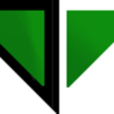
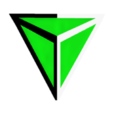
CSRF Protection
- Enabled some more secure features of Django to ensure security
from cross site request forgery. This isn't really adding all that much
to this website as this is not the main security threat. It's just nice
to have in general. There are only GET requests to canvas, so a CSRF attack
would do nothing in this context.

- Updated logo - it's still being worked on. I think it looks much better
as the ico though.

- Added a new template that will be the redirect when the model is being
trained. However, drawing with a canvas and then animating that is quite
difficult. Looking into js libraries that take care of this.

- Put a linear layer on the autoencoder at the end just like before.

diff --git a/Main/templates/model_training.html b/Main/templates/model_training.html
@@ -1,0 +1,54 @@
+{% extends 'base.html' %}
+{% block title %} <title>Training</title> {% endblock %}
+{% block css %}
+    {% load static %}
+        <link rel="stylesheet" type="text/css" href="{% static 'css/model_training.css' %}">
+{% endblock %}
+{% block body %}
+    <div id="neural-net">
+    </div>
+
+    <script type="text/javascript">
+    // TODO: Come back (fabric.js)
+        function buildLayer(nodeCount, id) {
+            let layer = document.createElement("div");
+            layer.id = id;
+            layer.className = "layer";
+            for (let i = 0; i < nodeCount; i++) {
+                let currentNode = document.createElement("canvas");
+                currentNode.width = 100;
+                currentNode.height = 100;
+                layer.appendChild(currentNode);
+                let brush = currentNode.getContext("2d");
+                let x = currentNode.width / 2;
+                let y = currentNode.height / 2;
+                let r = 45;
+                brush.beginPath();
+                brush.arc(x, y, r, 0, 2*Math.PI, false);
+                brush.lineWidth = 3;
+                brush.stroke();
+            }
+
+            document.getElementById("neural-net").appendChild(layer);
+        }
+
+        function drawConnections(fromDiv, toDiv) {
+            let curDiv = document.getElementById("fromDiv");
+            let otherDiv = document.getElementById("toDiv");
+            let curCanvases = curDiv.getElementsByName("canvas");
+            let otherCanvases = otherDiv.getElementsByName("canvas");
+            let curCanvas = null;
+            for (let i = 0; i < curCanvases.length; i++) {
+                curCanvas =
+            }
+        }
+
+        buildLayer(3, "input");
+        buildLayer(5, "layer1");
+        buildLayer(2, "layer2");
+        buildLayer(1, "layer3");
+        buildLayer(2, "layer4");
+        buildLayer(5, "layer5");
+        buildLayer(3, "output");
+    </script>
+{% endblock %}

diff --git a/Main/static/js/predictors.js b/Main/static/js/predictors.js
@@ -36,7 +36,7 @@ function loadModel(dataSet) {
     const decodeInputs = tf.input({shape: [layer3]});
     const decodeLayer1 = tf.layers.dense({units: layer2, activation: "tanh"});
     const decodeLayer2 = tf.layers.dense({units: layer1, activation: "tanh"});
-    const decodeLayer3 = tf.layers.dense({units: featureSize, activation: "tanh"});
+    const decodeLayer3 = tf.layers.dense({units: featureSize, activation: "linear"});
     const decodeOutput = decodeLayer3.apply(decodeLayer2.apply(decodeLayer1.apply(decodeInputs)));
 
     const encoder = tf.model({
@@ -60,11 +60,12 @@ function loadModel(dataSet) {
     });
 
     const optimizer = tf.train.adam(.08);
-    setInterval(trainModel, 1000);
+    setInterval(trainModel, 100);
     function trainModel() {
         console.log(tf.memory());
         const printLoss = calcLoss();
         printLoss.print();
+        printLoss.dispose();
         optimizer.minimize(calcLoss);
     }
 }

diff --git a/NARC/templates/base.html b/NARC/templates/base.html
@@ -22,6 +22,22 @@
     <meta name="msapplication-TileColor" content="#ffffff">
     <meta name="msapplication-TileImage" content="{% static 'ms-icon-144x144.png' %}">
     <meta name="theme-color" content="#ffffff">
+    {% csrf_token %}
+    <script type="text/javascript">
+        // FROM https://docs.djangoproject.com/en/2.2/ref/csrf/
+        let csrftoken = jQuery("[name=csrfmiddlewaretoken]").val();
+        function csrfSafeMethod(method) {
+            return (/^(GET|HEAD|OPTIONS|TRACE)$/.test(method));
+        }
+
+        $.ajaxSetup({
+            beforeSend: function(xhr, settings) {
+                if (!csrfSafeMethod(settings.type) && !this.crossDomain) {
+                    xhr.setRequestHeader("X-CSRFToken", csrftoken);
+                }
+            }
+        });
+    </script>
     {% block title %} {% endblock %}
     {% block scripts %} {% endblock %}
     {% block css %} {% endblock %}

diff --git a/Main/static/css/model_training.css b/Main/static/css/model_training.css
@@ -1,0 +1,25 @@
+body, html {
+    height: 100%;
+}
+
+#neural-net {
+    height: 100%;
+    width: inherit;
+    position: absolute;
+    left: 25%;
+}
+
+.layer {
+    height: 50%;
+    width: inherit;
+    display: inline-grid;
+    position: relative;
+    padding: 10px;
+}
+
+.layer canvas {
+    position: relative;
+    top: 50%;
+}
+
+

diff --git a/Main/templates/quiz.html b/Main/templates/quiz.html
@@ -1,5 +1,5 @@
 {% extends 'displayers.html' %}
-{% block title %}<title>Quiz View</title>{% endblock %}
+{% block title %}<title>Quiz {{ quiz_id }}</title>{% endblock %}
 {% block scripts %}
     {% load static %}
         <script src="https://cdn.jsdelivr.net/npm/@tensorflow/tfjs@1.0.2/dist/tf.min.js"></script>

diff --git a/NARC/settings.py b/NARC/settings.py
@@ -42,8 +42,8 @@ INSTALLED_APPS = [
 ]
 
 MIDDLEWARE = [
-    'django.middleware.security.SecurityMiddleware',
     'django.contrib.sessions.middleware.SessionMiddleware',
+    'django.middleware.security.SecurityMiddleware',
     'django.middleware.common.CommonMiddleware',
     'django.middleware.csrf.CsrfViewMiddleware',
     'django.contrib.auth.middleware.AuthenticationMiddleware',
@@ -123,3 +123,5 @@ SITE_ROOT = os.path.dirname(os.path.realpath(__file__))
 STATICFILES_DIRS = (
   os.path.join(SITE_ROOT, 'static/'),
 )
+
+CSRF_USE_SESSIONS = True

diff --git a/Main/urls.py b/Main/urls.py
@@ -7,5 +7,7 @@ urlpatterns = [
 	path("courses", view=views.courses, name="courses-view"),
 	path("course/<int:course_id>/", view=views.course, name="course"),
 	path("course/<int:course_id>/<int:module_id>/", view=views.module, name="module"),
-	path("course/<int:course_id>/<int:module_id>/<int:quiz_id>", view=views.quiz, name="quiz")
+	path("course/<int:course_id>/<int:module_id>/<int:quiz_id>", view=views.quiz, name="quiz"),
+	path("test", view=views.testing, name="test"),
+
 ]

diff --git a/Main/views.py b/Main/views.py
@@ -21,3 +21,8 @@ def module(request, course_id, module_id):
 
 def quiz(request, course_id, module_id, quiz_id):
 	return render(request, "quiz.html", {"course_id": course_id, "module_id": module_id, "quiz_id": quiz_id})
+
+
+def testing(request):
+	return render(request, "model_training.html")
+

diff --git a/README.md b/README.md
@@ -1,5 +1,5 @@
 <p align="center">
-<img src='https://i.imgur.com/0SEH9TD.png?1'>
+<img src='https://imgur.com/P5Ay30H.png?1'>
 </p>
 
 <h1 align='center'>NARC</h1>
